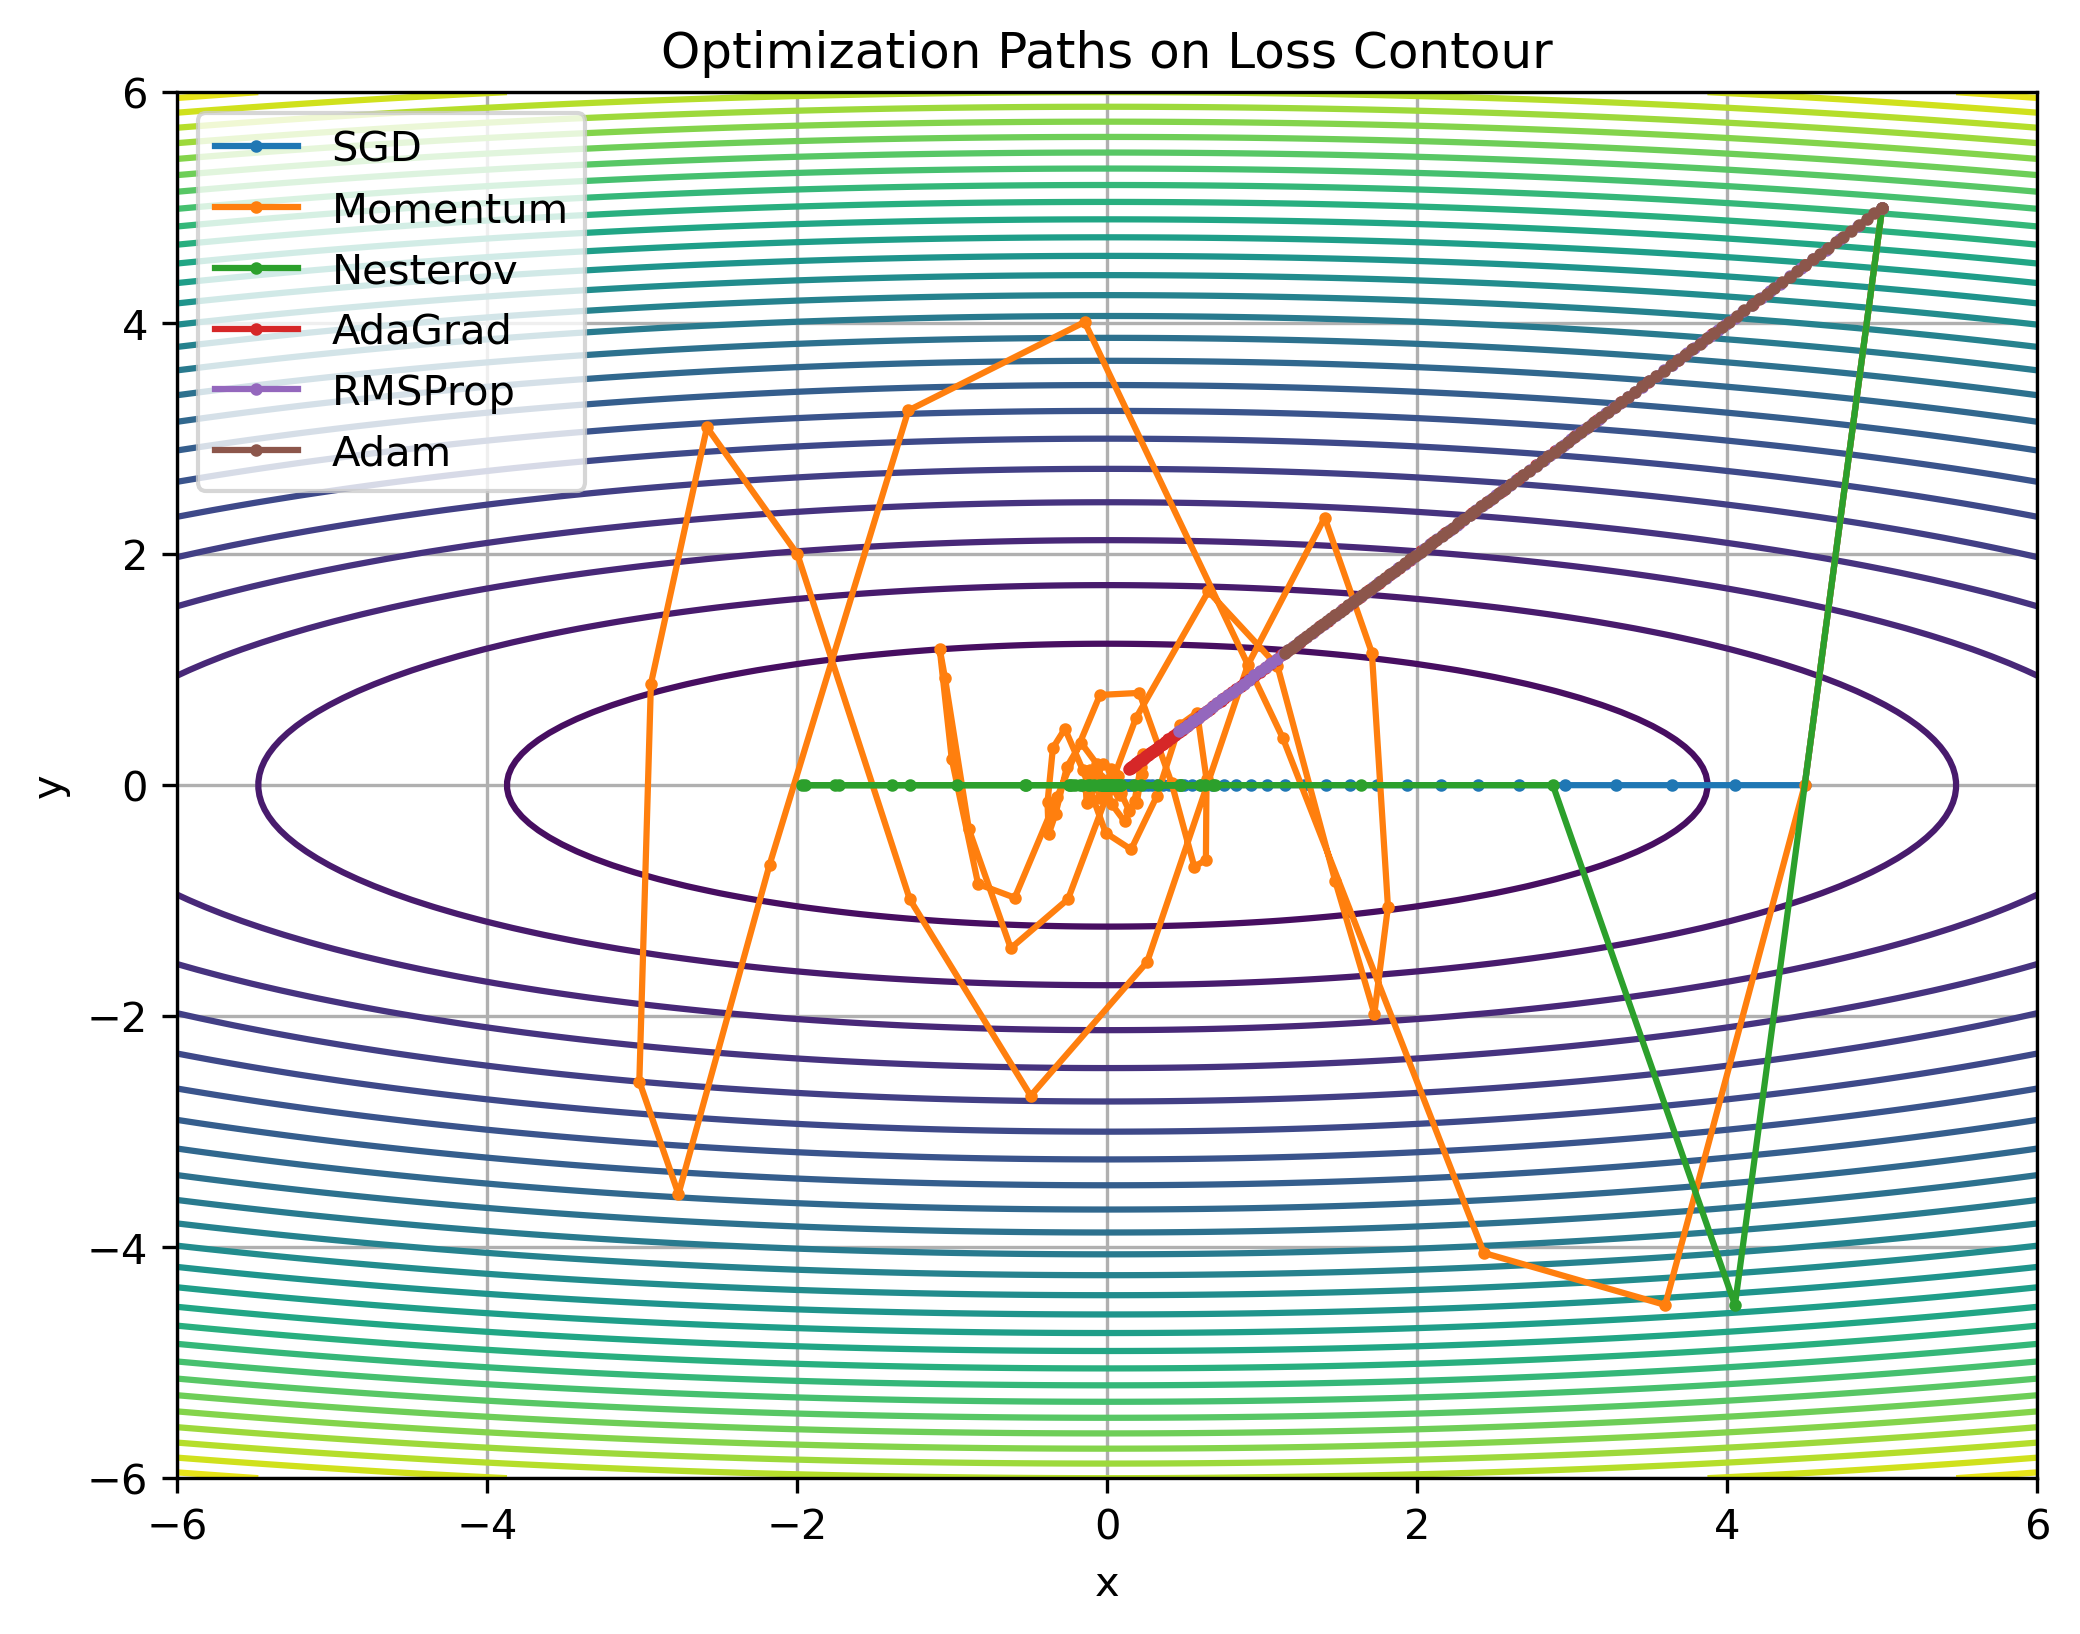
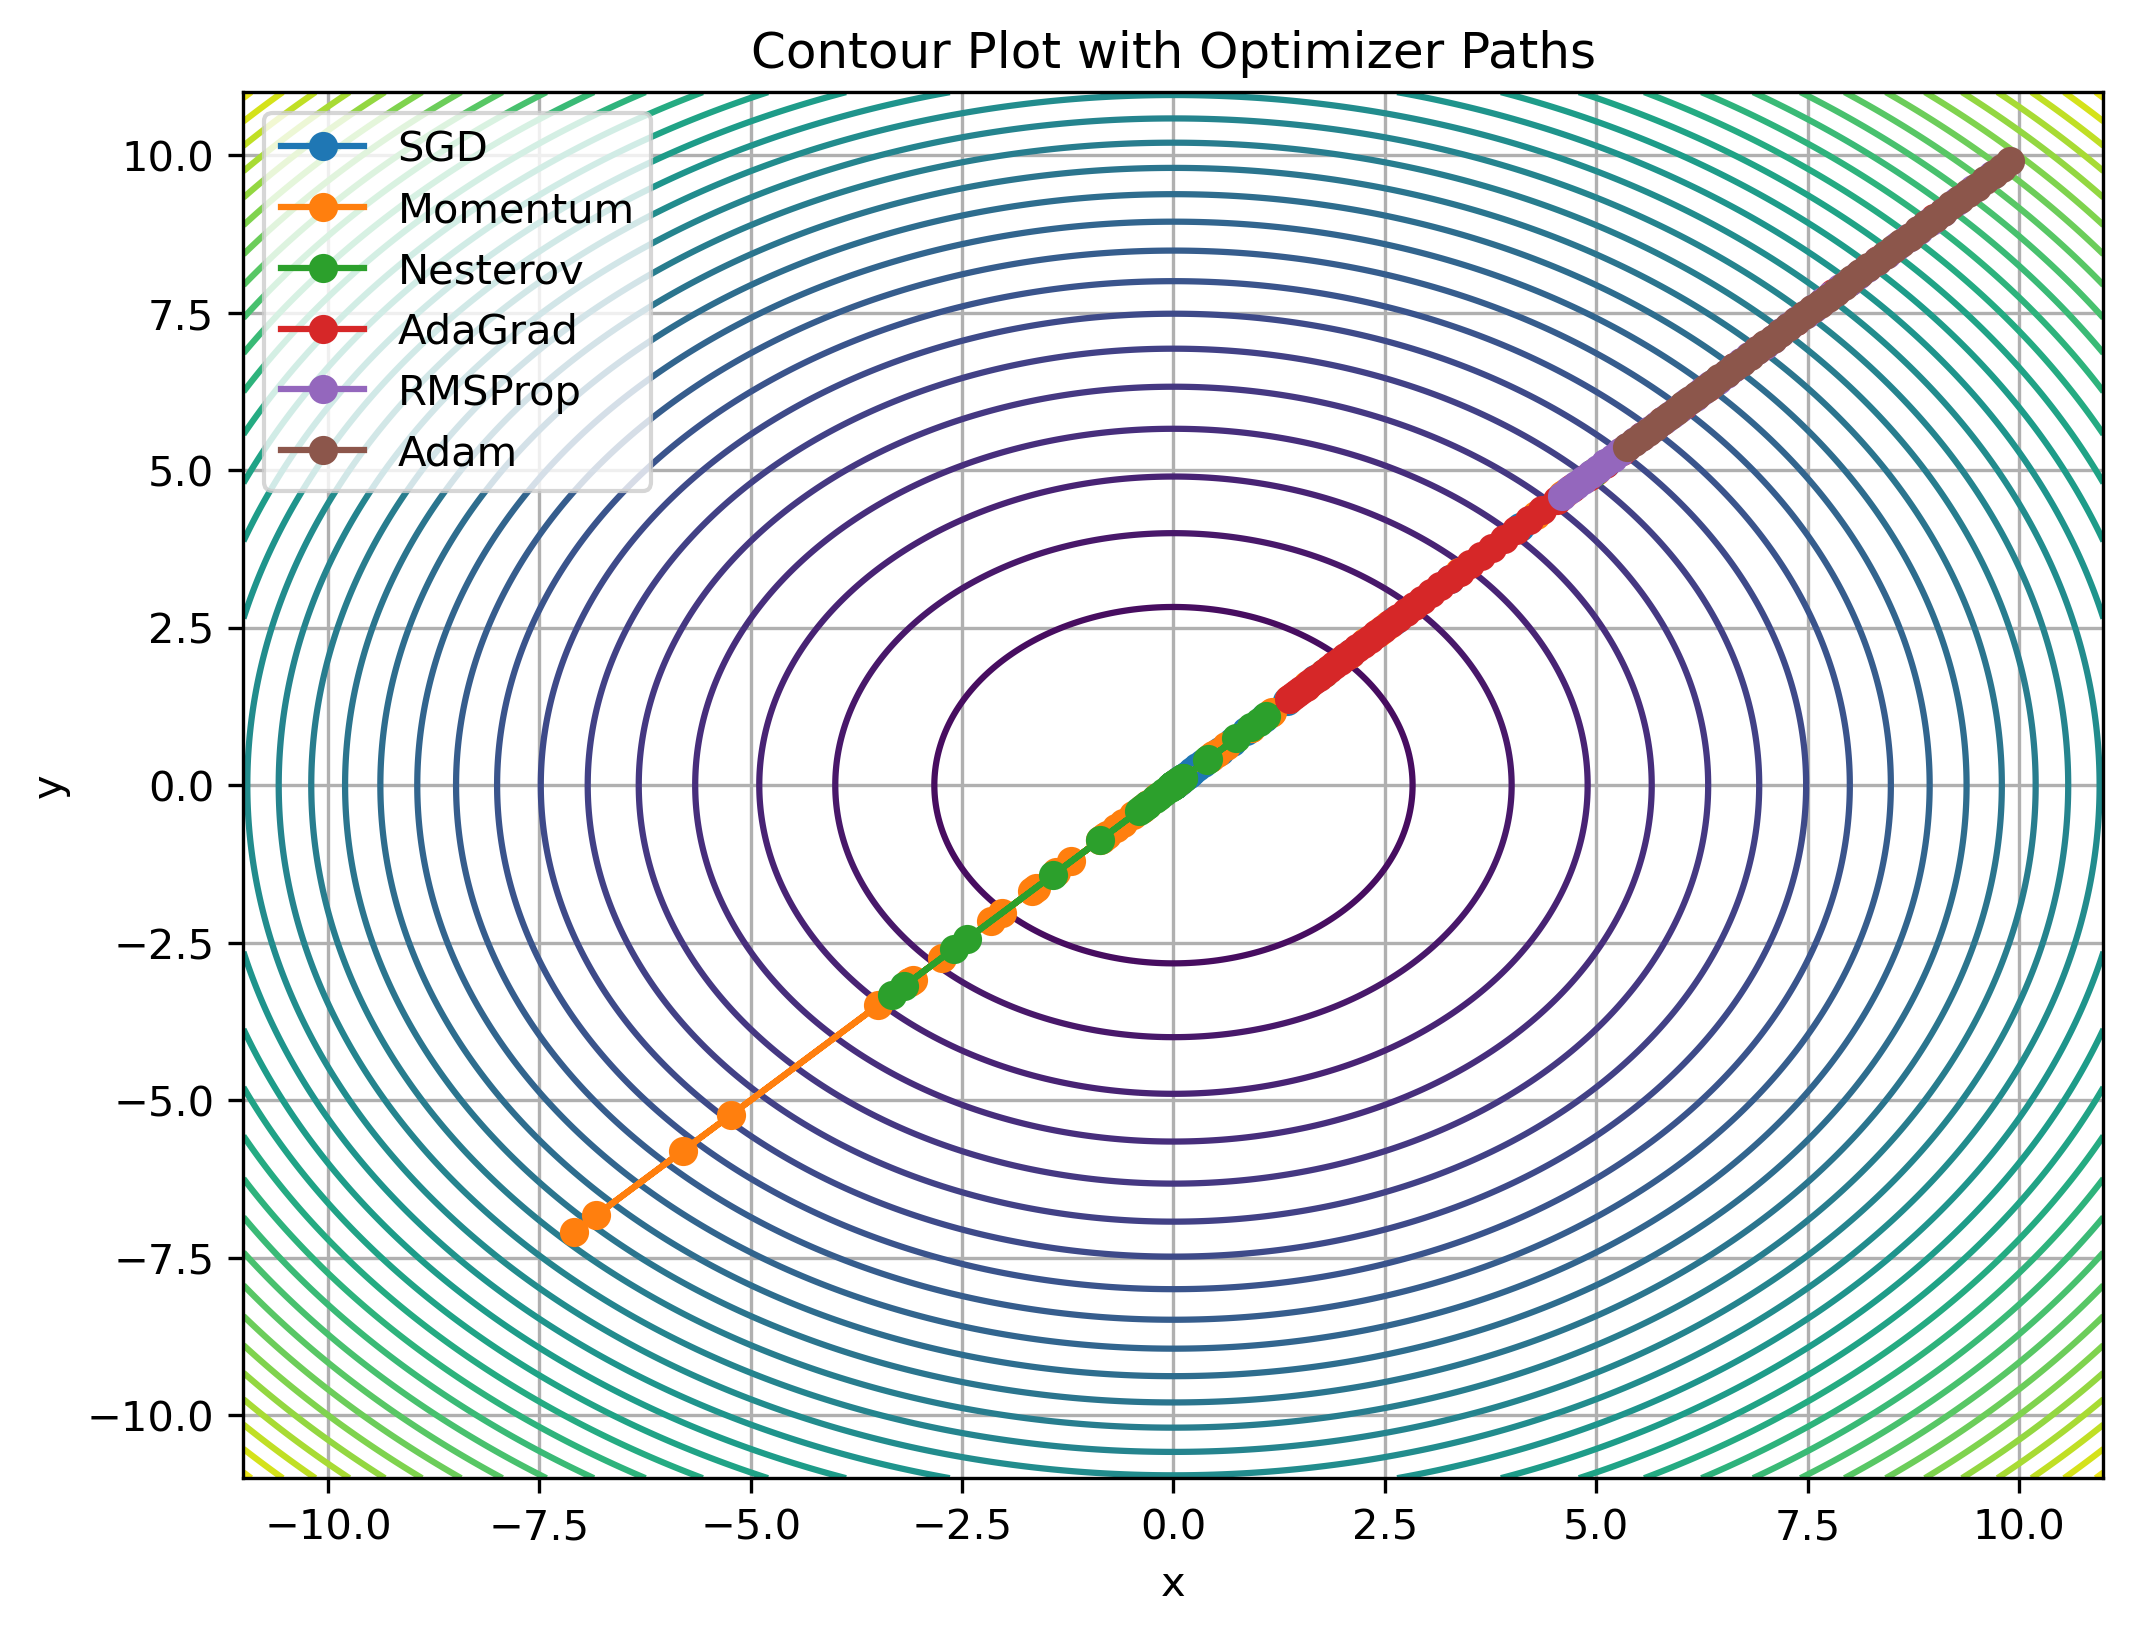
Add convergence and contour plots; clean Python cache files

diff --git a/optimizers.py b/optimizers.py
@@ -1,79 +1,116 @@
 import numpy as np
 
-class Optimizer:
-    def step(self, params, grads):
-        raise NotImplementedError
+def loss_fn(x, y):
+    return x**2 + y**2
+
+def grad_fn(x, y):
+    return 2*x, 2*y
 
 
-class SGD(Optimizer):
-    def __init__(self, lr=0.01):
-        self.lr = lr
+def sgd(lr=0.1, steps=50):
+    x, y = 10.0, 10.0
+    losses, path = [], []
 
-    def step(self, params, grads):
-        return params - self.lr * grads
+    for _ in range(steps):
+        gx, gy = grad_fn(x, y)
+        x -= lr * gx
+        y -= lr * gy
+        losses.append(loss_fn(x, y))
+        path.append((x, y))
 
-
-class Momentum(Optimizer):
-    def __init__(self, lr=0.01, beta=0.9):
-        self.lr = lr
-        self.beta = beta
-        self.v = np.zeros(2)
-
-    def step(self, params, grads):
-        self.v = self.beta * self.v + grads
-        return params - self.lr * self.v
+    return losses, path
 
 
-class Nesterov(Optimizer):
-    def __init__(self, lr=0.01, beta=0.9):
-        self.lr = lr
-        self.beta = beta
-        self.v = np.zeros(2)
+def momentum(lr=0.1, beta=0.9, steps=50):
+    x, y = 10.0, 10.0
+    vx, vy = 0.0, 0.0
+    losses, path = [], []
 
-    def step(self, params, grads):
-        self.v = self.beta * self.v + grads
-        return params - self.lr * (self.beta * self.v + grads)
+    for _ in range(steps):
+        gx, gy = grad_fn(x, y)
+        vx = beta * vx + lr * gx
+        vy = beta * vy + lr * gy
+        x -= vx
+        y -= vy
+        losses.append(loss_fn(x, y))
+        path.append((x, y))
 
-
-class AdaGrad(Optimizer):
-    def __init__(self, lr=0.1, eps=1e-8):
-        self.lr = lr
-        self.eps = eps
-        self.h = np.zeros(2)
-
-    def step(self, params, grads):
-        self.h += grads ** 2
-        return params - self.lr * grads / (np.sqrt(self.h) + self.eps)
+    return losses, path
 
 
-class RMSProp(Optimizer):
-    def __init__(self, lr=0.01, beta=0.9, eps=1e-8):
-        self.lr = lr
-        self.beta = beta
-        self.eps = eps
-        self.h = np.zeros(2)
+def nesterov(lr=0.1, beta=0.9, steps=50):
+    x, y = 10.0, 10.0
+    vx, vy = 0.0, 0.0
+    losses, path = [], []
 
-    def step(self, params, grads):
-        self.h = self.beta * self.h + (1 - self.beta) * grads ** 2
-        return params - self.lr * grads / (np.sqrt(self.h) + self.eps)
+    for _ in range(steps):
+        gx, gy = grad_fn(x - beta*vx, y - beta*vy)
+        vx = beta * vx + lr * gx
+        vy = beta * vy + lr * gy
+        x -= vx
+        y -= vy
+        losses.append(loss_fn(x, y))
+        path.append((x, y))
+
+    return losses, path
 
 
-class Adam(Optimizer):
-    def __init__(self, lr=0.01, beta1=0.9, beta2=0.999, eps=1e-8):
-        self.lr = lr
-        self.beta1 = beta1
-        self.beta2 = beta2
-        self.eps = eps
-        self.m = np.zeros(2)
-        self.v = np.zeros(2)
-        self.t = 0
+def adagrad(lr=1.0, eps=1e-8, steps=50):
+    x, y = 10.0, 10.0
+    hx, hy = 0.0, 0.0
+    losses, path = [], []
 
-    def step(self, params, grads):
-        self.t += 1
-        self.m = self.beta1 * self.m + (1 - self.beta1) * grads
-        self.v = self.beta2 * self.v + (1 - self.beta2) * (grads ** 2)
+    for _ in range(steps):
+        gx, gy = grad_fn(x, y)
+        hx += gx**2
+        hy += gy**2
+        x -= lr * gx / (np.sqrt(hx) + eps)
+        y -= lr * gy / (np.sqrt(hy) + eps)
+        losses.append(loss_fn(x, y))
+        path.append((x, y))
 
-        m_hat = self.m / (1 - self.beta1 ** self.t)
-        v_hat = self.v / (1 - self.beta2 ** self.t)
+    return losses, path
 
-        return params - self.lr * m_hat / (np.sqrt(v_hat) + self.eps)
+
+def rmsprop(lr=0.1, beta=0.9, eps=1e-8, steps=50):
+    x, y = 10.0, 10.0
+    hx, hy = 0.0, 0.0
+    losses, path = [], []
+
+    for _ in range(steps):
+        gx, gy = grad_fn(x, y)
+        hx = beta * hx + (1-beta) * gx**2
+        hy = beta * hy + (1-beta) * gy**2
+        x -= lr * gx / (np.sqrt(hx) + eps)
+        y -= lr * gy / (np.sqrt(hy) + eps)
+        losses.append(loss_fn(x, y))
+        path.append((x, y))
+
+    return losses, path
+
+
+def adam(lr=0.1, b1=0.9, b2=0.999, eps=1e-8, steps=50):
+    x, y = 10.0, 10.0
+    mx = my = vx = vy = 0.0
+    losses, path = [], []
+
+    for t in range(1, steps+1):
+        gx, gy = grad_fn(x, y)
+
+        mx = b1*mx + (1-b1)*gx
+        my = b1*my + (1-b1)*gy
+        vx = b2*vx + (1-b2)*gx**2
+        vy = b2*vy + (1-b2)*gy**2
+
+        mx_hat = mx / (1-b1**t)
+        my_hat = my / (1-b1**t)
+        vx_hat = vx / (1-b2**t)
+        vy_hat = vy / (1-b2**t)
+
+        x -= lr * mx_hat / (np.sqrt(vx_hat) + eps)
+        y -= lr * my_hat / (np.sqrt(vy_hat) + eps)
+
+        losses.append(loss_fn(x, y))
+        path.append((x, y))
+
+    return losses, path

diff --git a/runner.py b/runner.py
@@ -1,75 +1,56 @@
 import numpy as np
 import matplotlib.pyplot as plt
-from optimizers import SGD, Momentum, Nesterov, AdaGrad, RMSProp, Adam
+from optimizers import sgd, momentum, nesterov, adagrad, rmsprop, adam
 
-a, b = 1.0, 10.0
-
-def loss(params):
-    x, y = params
-    return a * x**2 + b * y**2
-
-def gradient(params):
-    x, y = params
-    return np.array([2 * a * x, 2 * b * y])
-
-optimizers = {
-    "SGD": SGD(lr=0.05),
-    "Momentum": Momentum(lr=0.05),
-    "Nesterov": Nesterov(lr=0.05),
-    "AdaGrad": AdaGrad(lr=0.5),
-    "RMSProp": RMSProp(lr=0.05),
-    "Adam": Adam(lr=0.05)
+# -----------------------------
+# Run optimizers
+# -----------------------------
+results = {
+    "SGD": sgd(),
+    "Momentum": momentum(),
+    "Nesterov": nesterov(),
+    "AdaGrad": adagrad(),
+    "RMSProp": rmsprop(),
+    "Adam": adam()
 }
 
-iterations = 100
-start_point = np.array([5.0, 5.0])
+# -----------------------------
+# 1⃣ Convergence Plot
+# -----------------------------
+plt.figure(figsize=(8, 6))
 
-history = {}
-paths = {}
-
-for name, optimizer in optimizers.items():
-    params = start_point.copy()
-    losses = []
-    path_x, path_y = [], []
-
-    for _ in range(iterations):
-        path_x.append(params[0])
-        path_y.append(params[1])
-
-        grads = gradient(params)
-        params = optimizer.step(params, grads)
-        losses.append(loss(params))
-
-    history[name] = losses
-    paths[name] = (path_x, path_y)
-
-    print(f"{name} final params: {params}")
-
-plt.figure(figsize=(10, 6))
-for name, losses in history.items():
+for name, (losses, _) in results.items():
     plt.plot(losses, label=name)
 
 plt.xlabel("Iterations")
 plt.ylabel("Loss")
-plt.title("Convergence Comparison of Optimization Algorithms")
+plt.title("Convergence Plot of Optimizers")
 plt.legend()
 plt.grid(True)
 
-x = np.linspace(-6, 6, 200)
-y = np.linspace(-6, 6, 200)
+plt.savefig("convergence_plot.png", dpi=300, bbox_inches="tight")
+plt.show()
+
+# -----------------------------
+# 2⃣ Contour Plot
+# -----------------------------
+x = np.linspace(-11, 11, 400)
+y = np.linspace(-11, 11, 400)
 X, Y = np.meshgrid(x, y)
-Z = a * X**2 + b * Y**2
+Z = X**2 + Y**2
 
 plt.figure(figsize=(8, 6))
 plt.contour(X, Y, Z, levels=30)
+plt.title("Contour Plot with Optimizer Paths")
 
-for name, (px, py) in paths.items():
-    plt.plot(px, py, marker='o', markersize=2, label=name)
+for name, (_, path) in results.items():
+    path = np.array(path)
+    plt.plot(path[:, 0], path[:, 1], marker='o', label=name)
 
 plt.xlabel("x")
 plt.ylabel("y")
-plt.title("Optimization Paths on Loss Contour")
 plt.legend()
 plt.grid(True)
 
+plt.savefig("contour_plot.png", dpi=300, bbox_inches="tight")
 plt.show()
